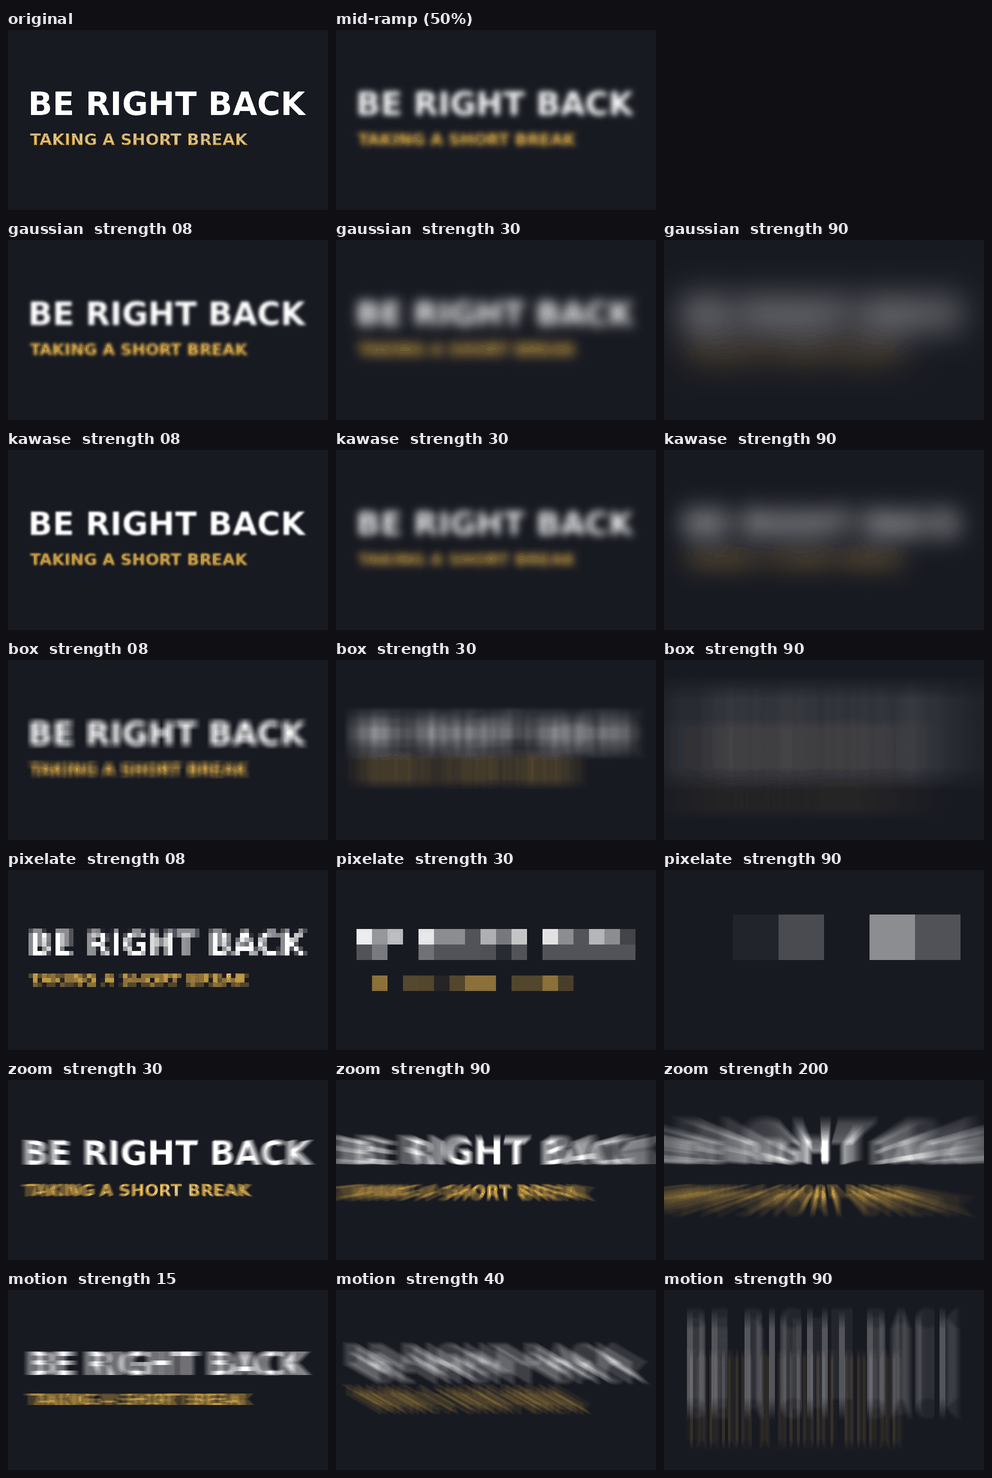
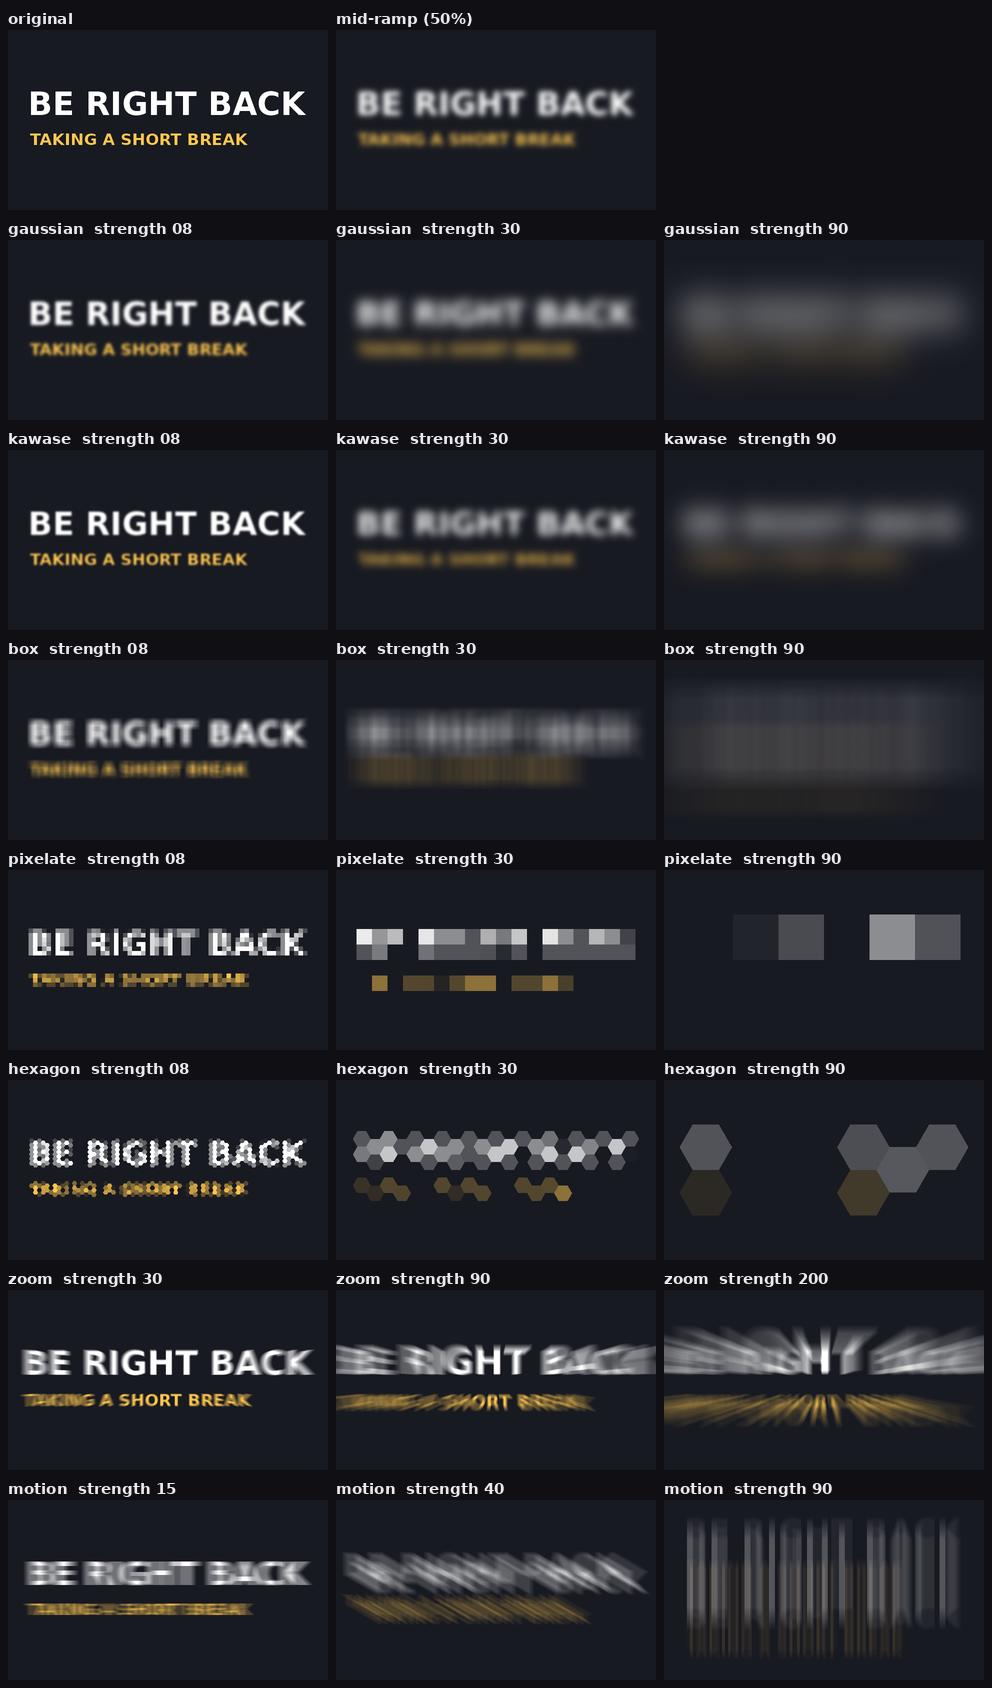
Ramp Blur: hexagon mosaic type; rebuild generator fits window captures
BlurType::Hexagon (6) with a Hexagon technique in the blur effect.
The collection generator gives the window-capture scenes a Fit Item
per capture and sets Auto Frame's picture height to the canvas height.

Claude-Session: https://claude.ai/code/session_01AkZzWGBxMrGHVePemUnc9z

diff --git a/scripts/rebuild-collection.py b/scripts/rebuild-collection.py
@@ -38,6 +38,7 @@ GAME_CAPTURES = {"Game Capture", "Windowed Game Capture"}
 # The one game capture in the rebuilt collection, and how far an emulator's squarer picture keeps from
 # the edges of a full-screen scene (the owner placed one by hand at about this).
 GAME = "Game Capture Framed"
+WINDOW_CAPTURES = {"Window Capture", "Blender", "Zbrush", "Fusion 360"}
 FULL_SCREEN_MARGIN = 90.0
 # Everything under these was the hand-built blurred background.
 BACKGROUND_SCENES = ("Live Background", "Start Background Scene", "Background Scene", "Tablet Background Scene")
@@ -404,7 +405,7 @@ def build_scene(name):
     report.append(f"\n{name}")
     flat = []
     flatten(name, T(), False, flat)
-    items, seen, ambient_done, game_done, fit = [], set(), False, False, None
+    items, seen, ambient_done, game_done, fit, fits = [], set(), False, False, None, []
     for e in flat:
         if e.get("ambient"):
             if not ambient_done:
@@ -433,12 +434,24 @@ def build_scene(name):
         seen.add(e["name"])
         if e["shadow"]:
             shadowed.add(e["name"])
+        if e["name"] in WINDOW_CAPTURES and e["bounds_type"] and e["bounds"][0] > 0:
+            # The same fit as the game: a window with the area's shape fills it, any other floats centred,
+            # and it stays fitted while the window is being resized.
+            whole = e["bounds"][0] >= CANVAS_W * 0.9
+            fits.append({"item": e["name"], "box": 0, "margin": FULL_SCREEN_MARGIN} if whole else
+                        {"item": e["name"], "box": 1, "box_x": float(round(e["pos"][0])),
+                         "box_y": float(round(e["pos"][1])), "box_width": float(int(e["bounds"][0])),
+                         "box_height": float(int(e["bounds"][1])), "margin": 0.0})
         items.append(item_json(e["name"], e["pos"], e["scale"], e["bounds_type"], e["bounds"], e["bounds_align"],
                                e["crop"], e["visible"], e["locked"], show=e.get("show"), hide=e.get("hide"),
                                align=e.get("align", 5)))
     filters = scene_filters(name, [i["name"] for i in items])
     if fit:
         filters.append(make_filter("stagekit_fit_item", "Fit the game", fit))
+    for window_fit in fits:
+        filters.append(make_filter("stagekit_fit_item", f"Fit {window_fit['item']}", window_fit))
+    if fits:
+        report.append(f"  Fit Item on: {', '.join(f['item'] for f in fits)}")
     new_sources[name] = scene_json(name, items, filters=filters)
     report.append(f"  {len(items)} items placed directly in the scene")
 

diff --git a/src/blur/ramp-blur.cpp b/src/blur/ramp-blur.cpp
@@ -46,6 +46,7 @@ enum class BlurType : int {
 	Pixelate = 3,
 	Zoom = 4,
 	Motion = 5,
+	Hexagon = 6,
 };
 
 enum class RampStyle : int {
@@ -783,6 +784,11 @@ RampBlur::Blurred RampBlur::run_blur(const Settings &s, gs_texture_t *input, uin
 		pass(tr_a_, input, w, h, "Pixelate");
 		return {gs_texrender_get_texture(tr_a_)};
 
+	case BlurType::Hexagon:
+		gs_effect_set_float(p_strength_, (float)(1.0 + strength));
+		pass(tr_a_, input, w, h, "Hexagon");
+		return {gs_texrender_get_texture(tr_a_)};
+
 	case BlurType::Zoom: {
 		// Strength 250 pulls samples 60% of the way to the centre.
 		const double amount = strength / kMaxStrength * 0.6;
@@ -913,6 +919,7 @@ obs_properties_t *get_properties(void *data)
 	obs_property_list_add_int(type, obs_module_text("RampBlur.Type.Kawase"), (int)BlurType::Kawase);
 	obs_property_list_add_int(type, obs_module_text("RampBlur.Type.Box"), (int)BlurType::Box);
 	obs_property_list_add_int(type, obs_module_text("RampBlur.Type.Pixelate"), (int)BlurType::Pixelate);
+	obs_property_list_add_int(type, obs_module_text("RampBlur.Type.Hexagon"), (int)BlurType::Hexagon);
 	obs_property_list_add_int(type, obs_module_text("RampBlur.Type.Zoom"), (int)BlurType::Zoom);
 	obs_property_list_add_int(type, obs_module_text("RampBlur.Type.Motion"), (int)BlurType::Motion);
 	obs_property_set_modified_callback(type, type_modified);
@@ -1120,6 +1127,8 @@ const char *ramp_blur_type_name(RampBlur *blur)
 		return "kawase";
 	case BlurType::Pixelate:
 		return "pixelate";
+	case BlurType::Hexagon:
+		return "hexagon";
 	case BlurType::Zoom:
 		return "zoom";
 	case BlurType::Motion:

diff --git a/tests/render-test.cpp b/tests/render-test.cpp
@@ -225,7 +225,8 @@ int main(int argc, char **argv)
 		{"kawase", 2, 30, 0},  {"kawase", 2, 90, 0},   {"box", 1, 8, 0},       {"box", 1, 30, 0},
 		{"box", 1, 90, 0},     {"pixelate", 3, 8, 0},  {"pixelate", 3, 30, 0}, {"pixelate", 3, 90, 0},
 		{"zoom", 4, 30, 0},    {"zoom", 4, 90, 0},     {"zoom", 4, 200, 0},    {"motion", 5, 15, 0},
-		{"motion", 5, 40, 30}, {"motion", 5, 90, 90},
+		{"motion", 5, 40, 30}, {"motion", 5, 90, 90},  {"hexagon", 6, 8, 0},   {"hexagon", 6, 30, 0},
+		{"hexagon", 6, 90, 0},
 	};
 	obs_source_t *filter = nullptr;
 	for (const Case &c : cases) {

diff --git a/tests/make-contact-sheet.py b/tests/make-contact-sheet.py
@@ -21,7 +21,7 @@ def load(path):
                     d.rectangle([x, y, x + 15, y + 15], fill=(150, 150, 150, 255))
     return Image.alpha_composite(base, img).convert("RGB")
 
-rows = [["original"], ["gaussian"], ["kawase"], ["box"], ["pixelate"], ["zoom"], ["motion"]]
+rows = [["original"], ["gaussian"], ["kawase"], ["box"], ["pixelate"], ["hexagon"], ["zoom"], ["motion"]]
 grid = []
 for (prefix,) in rows:
     files = sorted(glob.glob(os.path.join(frames_dir, f"{prefix}*.rgba")))

diff --git a/README.md b/README.md
@@ -17,8 +17,8 @@ StageKit is for streamers who build their scenes by hand. Each tool replaces a s
 takes several filters, source clones or wrapper scenes. Everything can be triggered from OBS itself,
 from hotkeys, or from the Stream Deck OBS Studio plugin's *Filter* and *Source* keys.
 
-- **Ramp Blur** (filter): blurs a source in and out smoothly. Six types: Gaussian, Dual Kawase, Box,
-  Pixelate, Zoom and Motion.
+- **Ramp Blur** (filter): blurs a source in and out smoothly. Seven types: Gaussian, Dual Kawase, Box,
+  Pixelate, Hexagons, Zoom and Motion.
 - **Ambient Background** (source): a soft, drifting backdrop built from an image or another source,
   optionally tinted by whatever capture is live.
 - **Start image**: one picture, chosen once, shown on the start scene and used by the background.
@@ -119,7 +119,7 @@ off, so it costs nothing while off.
 
 | Setting | What it does |
 | --- | --- |
-| Blur type | Gaussian (smoothest), Dual Kawase (fastest, best for strong blur), Box, Pixelate, Zoom, Motion |
+| Blur type | Gaussian (smoothest), Dual Kawase (fastest, best for strong blur), Box, Pixelate (square blocks), Hexagons (a honeycomb mosaic), Zoom, Motion |
 | Strength | 0–250. Gaussian, Kawase and Box look alike at the same number |
 | Ramp style | Grow the blur strength, or cross-fade a fully blurred image in |
 | Ramp in / out time | 0–5000 ms each. 0 is instant |

diff --git a/DEVELOPMENT_HANDOFF.md b/DEVELOPMENT_HANDOFF.md
@@ -204,6 +204,13 @@ information), which is what the template uses for pushes to `main`.
   the scene-collection rebuild. Scope: merging rebuild changes after green checks and publishing them
   as pre-releases. Not covered: a stable release, visibility or access changes, unrelated work.
 
+## Hexagon blur (0.1.0-beta44)
+
+Asked for by the owner. `BlurType::Hexagon = 6` (appended), technique `Hexagon` in
+`data/effects/stagekit-blur.effect`: the hexagon cell maths from the Ambient Background's mosaic,
+anchored on the image centre and averaged over four taps like `Pixelate`. Reported to obs-websocket
+as `hexagon`. **Not verified on Direct3D.**
+
 ## One list control everywhere (0.1.0-beta43)
 
 The owner: "make any list that apps or sources or scenes or items of any kind get added to ... have a

diff --git a/docs/releases/0.1.0-beta44.md b/docs/releases/0.1.0-beta44.md
@@ -1,0 +1,19 @@
+# StageKit 0.1.0-beta44
+
+Forty-fourth pre-release: a hexagon blur. It passes the automated tests on Linux; **it has not been run
+in OBS on Windows yet**, where the new shader is compiled by Direct3D for the first time when OBS
+starts.
+
+## What's new in Ramp Blur
+
+- **Blur type: Hexagons.** A honeycomb mosaic: the picture breaks into hexagons that grow as the blur
+  ramps in, the way *Pixelate* does with squares. *Strength* sets the hexagon size.
+
+## Installing on Windows
+
+Close OBS and run `stagekit-0.1.0-windows-x64-Installer.exe`. It installs over an earlier version.
+
+## Known limits
+
+- The installer and the macOS package are not signed by a publisher.
+- File names carry the base version, 0.1.0.
